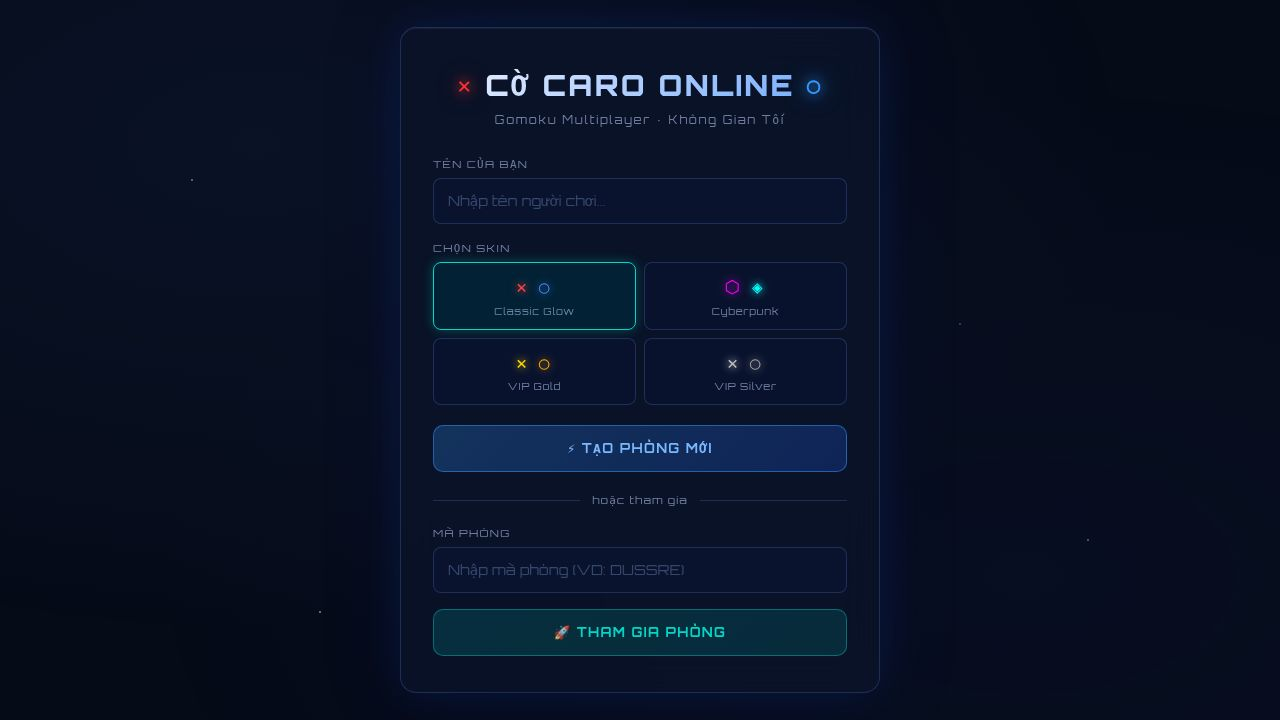
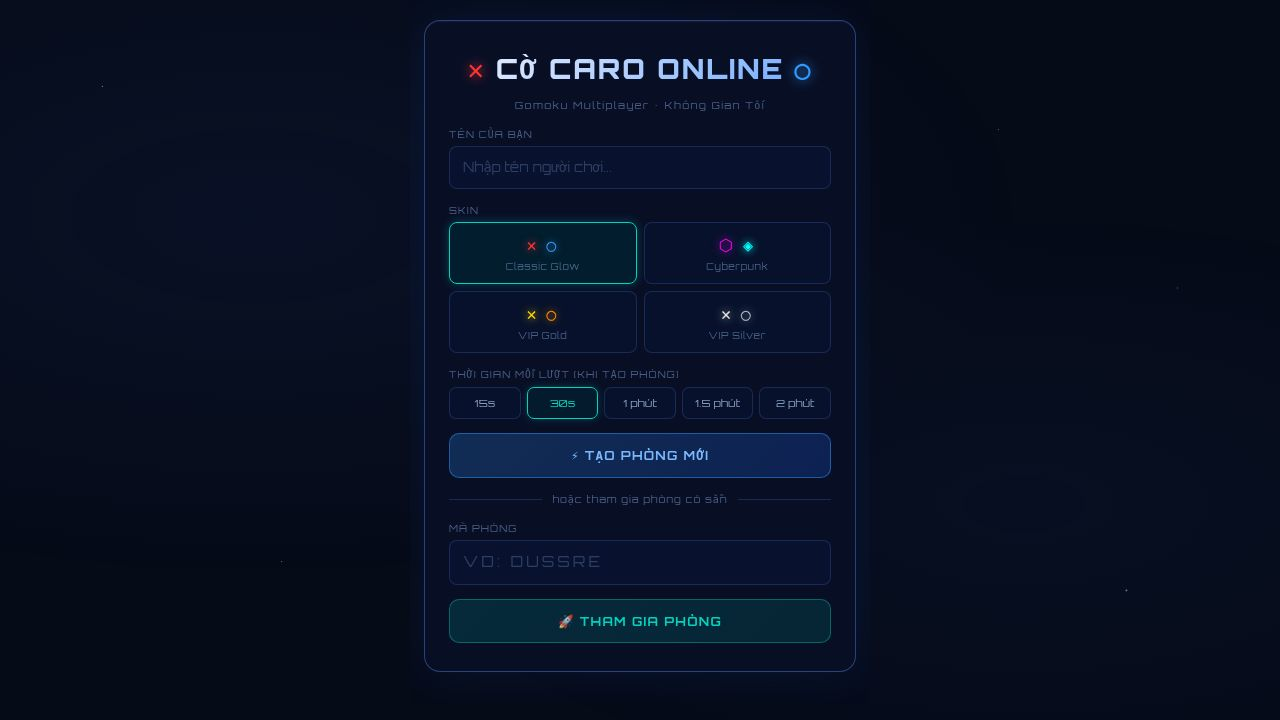
Add automatic turn skipping and a back-to-lobby button
Implement automatic turn skipping on timer expiration and add a button to navigate back to the lobby from the game page.

Replit-Commit-Author: Agent
Replit-Commit-Session-Id: 1b4d3993-bfda-41e4-ab26-1ce76bd475ae
Replit-Commit-Checkpoint-Type: full_checkpoint
Replit-Commit-Event-Id: c7ef92c1-0a57-40f7-ab6a-785bd14b7c1a
Replit-Commit-Screenshot-Url: https://storage.googleapis.com/screenshot-production-us-central1/34e188da-a703-4452-9d19-bf15eabefd24/1b4d3993-bfda-41e4-ab26-1ce76bd475ae/HGdvfEC
Replit-Helium-Checkpoint-Created: true

diff --git a/artifacts/gomoku/src/pages/GamePage.tsx b/artifacts/gomoku/src/pages/GamePage.tsx
@@ -50,6 +50,7 @@ export default function GamePage() {
   const prevTurnRef = useRef<1 | 2 | null>(null);
   const prevStatusRef = useRef<string>("");
   const joinedRef = useRef(false);
+  const timeoutFiredRef = useRef(false); // prevent duplicate skip_turn
   const isMyTurn = room?.status === "playing" && room.currentTurn === myPiece;
   const amLoser = room?.status === "finished" && room.winner !== 0 && room.winner !== myPiece;
 
@@ -118,12 +119,21 @@ export default function GamePage() {
     }
     if (prevTurnRef.current !== room.currentTurn) {
       prevTurnRef.current = room.currentTurn;
+      timeoutFiredRef.current = false;
       setTimer(room.turnTime ?? 30);
     }
     if (timerRef.current) clearInterval(timerRef.current);
     timerRef.current = setInterval(() => {
       setTimer(t => {
-        if (t <= 1) { clearInterval(timerRef.current!); return 0; }
+        if (t <= 1) {
+          clearInterval(timerRef.current!);
+          // auto-skip: only the player whose turn it is sends this once
+          if (isMyTurn && !timeoutFiredRef.current) {
+            timeoutFiredRef.current = true;
+            getSocket().emit("skip_turn", { roomId, piece: myPiece });
+          }
+          return 0;
+        }
         if (t <= 6 && isMyTurn) playTick();
         return t - 1;
       });
@@ -213,6 +223,10 @@ export default function GamePage() {
 
         {/* Row 1 */}
         <div className="header-row1">
+          <button className="lobby-back-btn" onClick={() => navigate("/")} title="Quay lại sảnh">
+            ← Sảnh
+          </button>
+
           <div className="room-key-badge">
             <span className="badge-label">KEY</span>
             <span className="badge-sep">:</span>

diff --git a/artifacts/api-server/src/socketHandler.ts b/artifacts/api-server/src/socketHandler.ts
@@ -1,7 +1,7 @@
 import { Server as SocketIOServer, Socket } from "socket.io";
 import {
   createRoom, getRoom, joinRoom, makeMove,
-  resetGame, getAIMove, cleanupOldRooms, setTurnTime,
+  resetGame, getAIMove, cleanupOldRooms, setTurnTime, skipTurn,
 } from "./game";
 import { logger } from "./lib/logger";
 
@@ -45,6 +45,13 @@ export function setupSocketIO(io: SocketIOServer) {
         const room = resetGame(data.roomId, data.firstPiece);
         if (room) io.to(data.roomId).emit("room_updated", room);
       } catch (e) { logger.error(e, "reset_game"); }
+    });
+
+    socket.on("skip_turn", (data: { roomId: string; piece: 1 | 2 }) => {
+      try {
+        const room = skipTurn(data.roomId, data.piece);
+        if (room) io.to(data.roomId).emit("room_updated", room);
+      } catch (e) { logger.error(e, "skip_turn"); }
     });
 
     socket.on("set_turn_time", (data: { roomId: string; seconds: number }) => {

diff --git a/artifacts/api-server/src/game.ts b/artifacts/api-server/src/game.ts
@@ -108,6 +108,14 @@ export function resetGame(roomId: string, firstPiece?: 1 | 2): GameRoom | null {
   return room;
 }
 
+export function skipTurn(roomId: string, piece: 1 | 2): GameRoom | null {
+  const room = rooms.get(roomId);
+  if (!room || room.status !== "playing") return null;
+  if (room.currentTurn !== piece) return null; // only the current player can skip
+  room.currentTurn = room.currentTurn === 1 ? 2 : 1;
+  return room;
+}
+
 export function setTurnTime(roomId: string, seconds: number): GameRoom | null {
   const room = rooms.get(roomId);
   if (!room) return null;

diff --git a/artifacts/gomoku/src/index.css b/artifacts/gomoku/src/index.css
@@ -220,6 +220,14 @@ body { background: var(--bg-deep); color: var(--text-hi); font-family: var(--fon
 .p-score { font-size: .8rem; font-weight: 700; color: var(--accent-teal); text-shadow: 0 0 6px var(--accent-teal); flex-shrink: 0; }
 .vs-badge { font-size: .58rem; letter-spacing: .12em; color: var(--text-dim); flex-shrink: 0; }
 
+.lobby-back-btn {
+  background: rgba(8,18,48,.72); border: 1px solid var(--border);
+  border-radius: 6px; padding: 3px 8px; color: var(--text-dim);
+  font-family: var(--font); font-size: .58rem; letter-spacing: .07em;
+  cursor: pointer; transition: all .18s; flex-shrink: 0; white-space: nowrap;
+}
+.lobby-back-btn:hover { border-color: var(--border-hi); color: var(--text-hi); background: rgba(20,40,90,.7); }
+
 .btn-reset {
   background: rgba(0,212,192,.18); border: 1px solid rgba(0,212,192,.38);
   border-radius: 6px; padding: 4px 10px; color: var(--accent-teal);